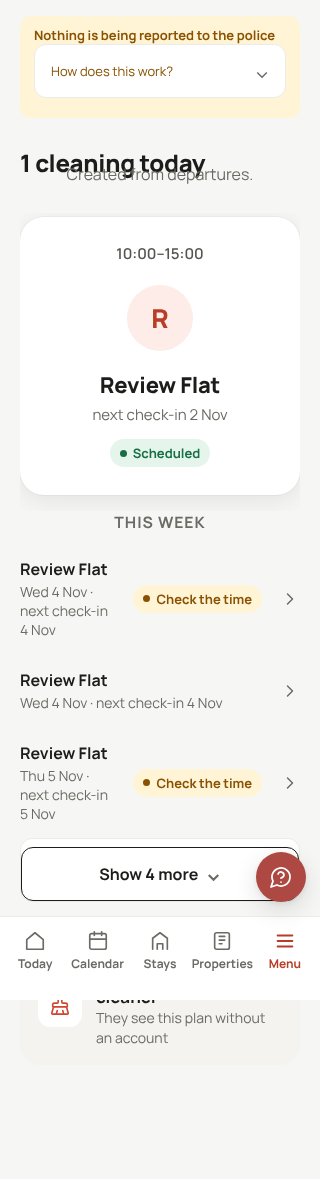
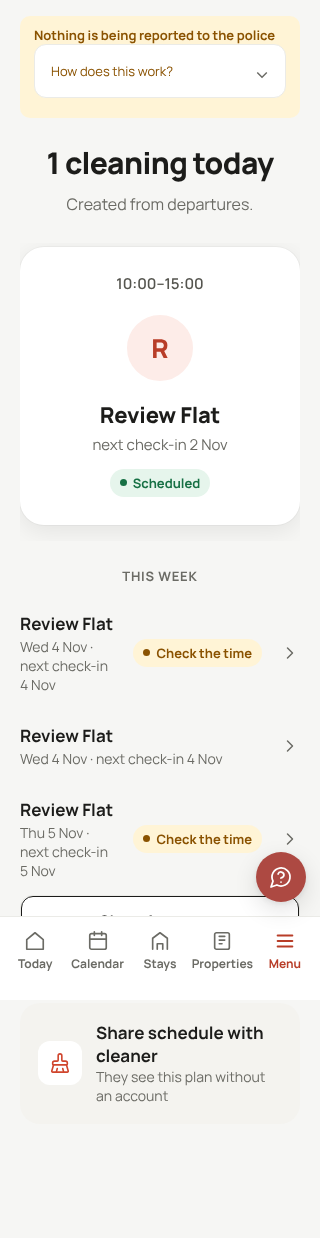
0732d: cleaning phone box skips, screenshots
Claude-Session: https://claude.ai/code/session_01Cjmb7QKLV1StsZgEphu7z5

diff --git a/App/tests/v2_mockup.py b/App/tests/v2_mockup.py
@@ -132,7 +132,15 @@ PAGES = [
             ".hs .pill": "today's stay cards exist only when a stay is due today; the phone mockup shows demo stays",
         },
     },
-    {"name": "cleaning", "path": "/cleaning", "view": "clean", "selectors": [".side .nav.on", ".head h1", ".head .sub", ".head .btn", "main h2", "main .card", "main table th", "main table td"], "phone_mockup": PHONE_MOCKUP_V2, "phone_view": "uklid", "phone_selectors": [".tabs", ".tab.on", ".hl", ".hl-sub", ".hs .card", ".kind", ".av", ".nm", ".meta", ".hs .pill.p-ok", "h2.sec", ".list.plain .row:not(:has(.pill))", ".row:not(:has(.pill)) .t b", ".row:not(:has(.pill)) .t small", ".btn.line", ".promo", ".promo .pi", ".promo b", ".promo small"], "missing_ok": {"main table th": "below 1024 px the phone layout replaces the tables (0546)", "main table td": "below 1024 px the phone layout replaces the tables (0546)"}},  # pills follow the approved phone mockup (2026-11-01): scheduled green, the desktop mockup shows amber
+    {"name": "cleaning", "path": "/cleaning", "view": "clean", "selectors": [".side .nav.on", ".head h1", ".head .sub", ".head .btn", "main h2", "main .card", "main table th", "main table td"], "phone_mockup": PHONE_MOCKUP_V2, "phone_view": "uklid",
+        "phone_box_skip": {
+            ".kind": (["width"], "today's cleaning window text comes from the fixture"),
+            ".nm": (["width"], "shrink-to-fit width follows the fixture's property name"),
+            ".meta": (["width"], "shrink-to-fit width follows the fixture's next check-in text"),
+            ".promo": (["height"], "the app's share copy is longer than the mockup's and wraps at 320 px"),
+            ".promo b": (["height"], "the app's share copy is longer than the mockup's and wraps at 320 px"),
+        },
+        "phone_selectors": [".tabs", ".tab.on", ".hl", ".hl-sub", ".hs .card", ".kind", ".av", ".nm", ".meta", ".hs .pill.p-ok", "h2.sec", ".list.plain .row:not(:has(.pill))", ".row:not(:has(.pill)) .t b", ".row:not(:has(.pill)) .t small", ".btn.line", ".promo", ".promo .pi", ".promo b", ".promo small"], "missing_ok": {"main table th": "below 1024 px the phone layout replaces the tables (0546)", "main table td": "below 1024 px the phone layout replaces the tables (0546)"}},  # pills follow the approved phone mockup (2026-11-01): scheduled green, the desktop mockup shows amber
     {
         "name": "properties",
         "path": "/apartments",
